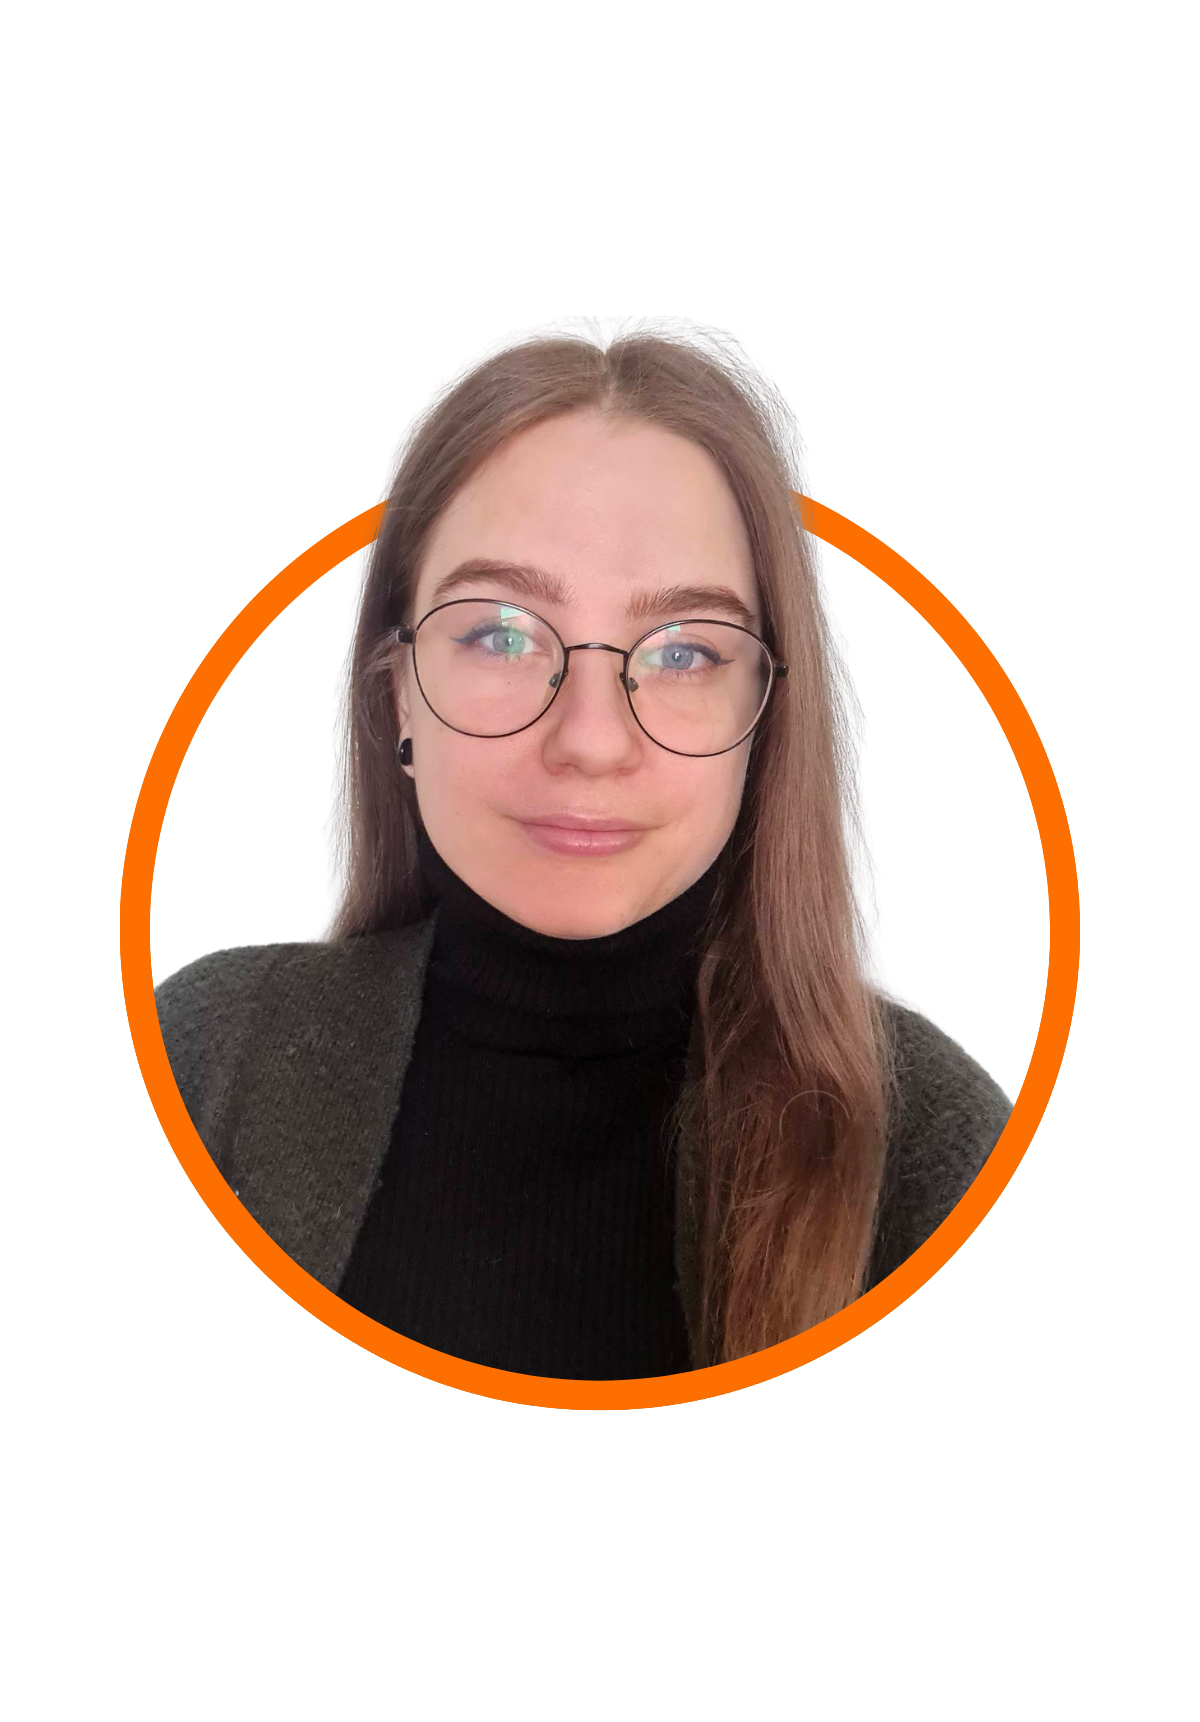
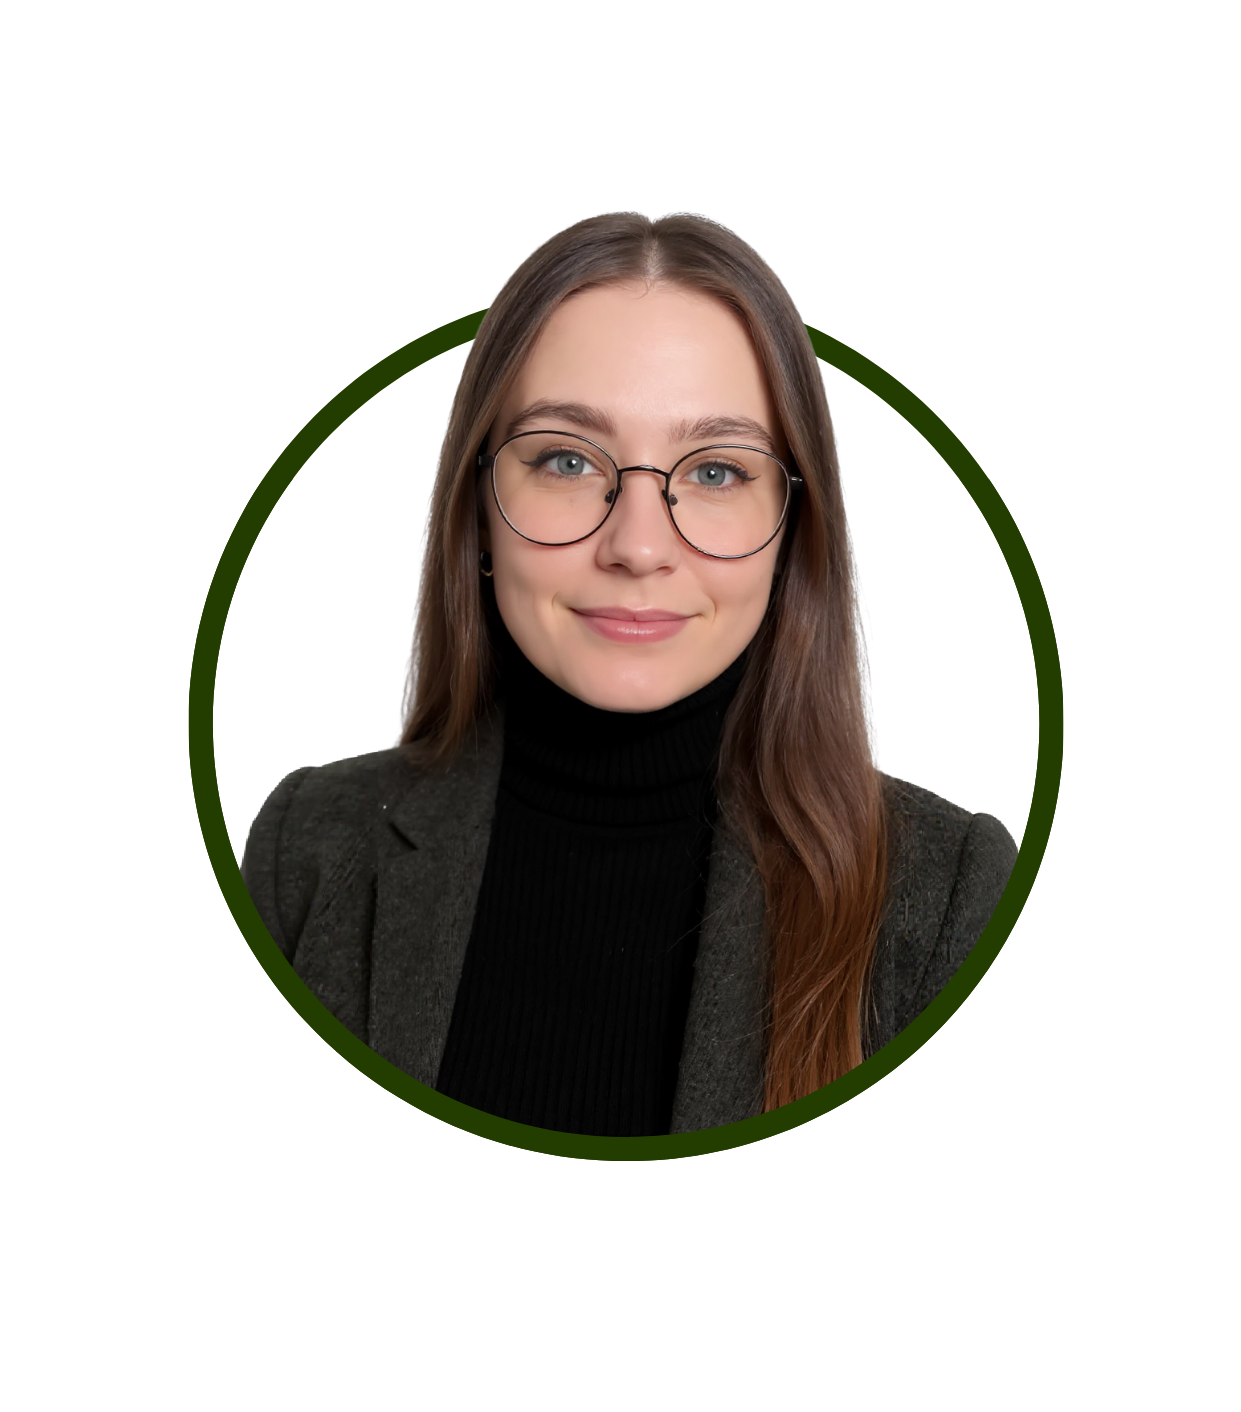
Changes color and adds projects

Changed region(s): [[0.0925, 0.1246, 0.925, 0.8414]]

diff --git a/src/components/Reusables/icons.jsx b/src/components/Reusables/icons.jsx
@@ -1,22 +1,41 @@
-import githubicon from "../../images/icons/github.png"
-import linkedinicon from "../../images/icons/linkedin.png"
-import stackoverflowicon from "../../images/icons/stackoverflow.png"
 import styled from "styled-components"
+import { theme } from "../Styling/Theme"
 
 export const Icons = () => {
   return (
     <IconRow>
-      <a href="https://github.com/julialindstrand"><Picture src={githubicon} alt="Github Logo" /></a>
-      <a href="https://www.linkedin.com/flagship-web/mynetwork/grow/"><Picture src={linkedinicon} alt="LinkedIn Logo" /></a>
-      <a href="https://stackoverflow.com/users/31290851/user31290851"><Picture src={stackoverflowicon} alt="Stackoverflow Logo" /></a>
-    </IconRow>
+      <a href="https://github.com/julialindstrand">
+        <svg width="24" height="23" viewBox="0 0 24 23" fill="none" xmlns="http://www.w3.org/2000/svg">
+          <path d="M7.73438 18.2812C7.73438 18.1875 7.64062 18.0938 7.5 18.0938C7.35938 18.0938 7.26562 18.1875 7.26562 18.2812C7.26562 18.375 7.35938 18.4688 7.5 18.4219C7.64062 18.4219 7.73438 18.375 7.73438 18.2812ZM6.28125 18.0469C6.28125 18.1406 6.375 18.2812 6.51562 18.2812C6.60938 18.3281 6.75 18.2812 6.79688 18.1875C6.79688 18.0938 6.75 18 6.60938 17.9531C6.46875 17.9062 6.32812 17.9531 6.28125 18.0469ZM8.39062 18C8.25 18 8.15625 18.0938 8.15625 18.2344C8.15625 18.3281 8.29688 18.375 8.4375 18.3281C8.57812 18.2812 8.67188 18.2344 8.625 18.1406C8.625 18.0469 8.48438 17.9531 8.39062 18ZM11.4375 0C4.96875 0 0 4.96875 0 11.4375C0 16.6406 3.23438 21.0938 7.92188 22.6875C8.53125 22.7812 8.71875 22.4062 8.71875 22.125C8.71875 21.7969 8.71875 20.2031 8.71875 19.2188C8.71875 19.2188 5.4375 19.9219 4.73438 17.8125C4.73438 17.8125 4.21875 16.4531 3.46875 16.125C3.46875 16.125 2.39062 15.375 3.51562 15.375C3.51562 15.375 4.6875 15.4688 5.34375 16.5938C6.375 18.4219 8.0625 17.9062 8.76562 17.5781C8.85938 16.8281 9.14062 16.3125 9.51562 15.9844C6.89062 15.7031 4.21875 15.3281 4.21875 10.8281C4.21875 9.51562 4.59375 8.90625 5.34375 8.0625C5.20312 7.73438 4.82812 6.51562 5.48438 4.875C6.42188 4.59375 8.71875 6.14062 8.71875 6.14062C9.65625 5.85938 10.6406 5.76562 11.625 5.76562C12.6562 5.76562 13.6406 5.85938 14.5781 6.14062C14.5781 6.14062 16.8281 4.54688 17.8125 4.875C18.4688 6.51562 18.0469 7.73438 17.9531 8.0625C18.7031 8.90625 19.1719 9.51562 19.1719 10.8281C19.1719 15.3281 16.4062 15.7031 13.7812 15.9844C14.2031 16.3594 14.5781 17.0625 14.5781 18.1875C14.5781 19.7344 14.5312 21.7031 14.5312 22.0781C14.5312 22.4062 14.7656 22.7812 15.375 22.6406C20.0625 21.0938 23.25 16.6406 23.25 11.4375C23.25 4.96875 17.9531 0 11.4375 0ZM4.54688 16.1719C4.45312 16.2188 4.5 16.3594 4.54688 16.4531C4.64062 16.5 4.73438 16.5469 4.82812 16.5C4.875 16.4531 4.875 16.3125 4.78125 16.2188C4.6875 16.1719 4.59375 16.125 4.54688 16.1719ZM4.03125 15.7969C3.98438 15.8906 4.03125 15.9375 4.125 15.9844C4.21875 16.0312 4.3125 16.0312 4.35938 15.9375C4.35938 15.8906 4.3125 15.8438 4.21875 15.7969C4.125 15.75 4.07812 15.75 4.03125 15.7969ZM5.53125 17.4844C5.48438 17.5312 5.48438 17.6719 5.625 17.7656C5.71875 17.8594 5.85938 17.9062 5.90625 17.8125C5.95312 17.7656 5.95312 17.625 5.85938 17.5312C5.76562 17.4375 5.625 17.3906 5.53125 17.4844ZM5.01562 16.7812C4.92188 16.8281 4.92188 16.9688 5.01562 17.0625C5.10938 17.1562 5.20312 17.2031 5.29688 17.1562C5.34375 17.1094 5.34375 16.9688 5.29688 16.875C5.20312 16.7812 5.10938 16.7344 5.01562 16.7812Z" fill={theme.color} />
+        </svg>
+      </a>
+      <a href="https://www.linkedin.com/flagship-web/mynetwork/grow/">
+        <svg width="21" height="21" viewBox="0 0 21 21" fill="none" xmlns="http://www.w3.org/2000/svg">
+          <path d="M4.6875 20.9531V6.9375H0.328125V20.9531H4.6875ZM2.48438 5.0625C3.89062 5.0625 5.01562 3.89062 5.01562 2.48438C5.01562 1.125 3.89062 0 2.48438 0C1.125 0 0 1.125 0 2.48438C0 3.89062 1.125 5.0625 2.48438 5.0625ZM20.9531 20.9531H21V13.2656C21 9.51562 20.1562 6.60938 15.75 6.60938C13.6406 6.60938 12.2344 7.78125 11.625 8.85938H11.5781V6.9375H7.40625V20.9531H11.7656V14.0156C11.7656 12.1875 12.0938 10.4531 14.3438 10.4531C16.5938 10.4531 16.6406 12.5156 16.6406 14.1562V20.9531H20.9531Z" fill={theme.color} />
+        </svg>
+      </a>
+      <a href="https://stackoverflow.com/users/31290851/user31290851">
+        <svg width="19" height="24" viewBox="0 0 19 24" fill="none" xmlns="http://www.w3.org/2000/svg">
+          <path d="M13 21H3V19H13V21ZM19 9.335L17.379 0L15.386 0.346L17.006 9.681L19 9.335ZM13.036 16.272L3.29 15.297L3.104 17.313L12.859 18.192L13.036 16.272ZM13.574 13.685L4.298 11.077L3.772 13.031L13.078 15.531L13.574 13.685ZM14.778 11.272L6.481 6.408L5.452 8.151L13.75 13.016L14.778 11.272ZM16.644 9.805L11.305 1.976L9.633 3.116L14.972 10.945L16.644 9.805ZM14 14V22H2V14H0V24H16V14H14Z" fill={theme.color} />
+        </svg>
+      </a>
+      {/* <a href="https://stackoverflow.com/users/31290851/user31290851">
+        <svg xmlns="http://www.w3.org/2000/svg" xmlns:xlink="http://www.w3.org/1999/xlink" version="1.1" width="19" height="24" viewBox="0 0 19 24" xml:space="preserve">
+          <g style="stroke: none; stroke-width: 0; stroke-dasharray: none; stroke-linecap: butt; stroke-linejoin: miter; stroke-miterlimit: 10; fill: none; fill-rule: nonzero; opacity: 1;" transform="translate(1.4065934065934016 1.4065934065934016) scale(2.81 2.81)">
+            <path d="M 75.546 78.738 H 14.455 C 6.484 78.738 0 72.254 0 64.283 V 25.716 c 0 -7.97 6.485 -14.455 14.455 -14.455 h 61.091 c 7.97 0 14.454 6.485 14.454 14.455 v 38.567 C 90 72.254 83.516 78.738 75.546 78.738 z M 14.455 15.488 c -5.64 0 -10.228 4.588 -10.228 10.228 v 38.567 c 0 5.64 4.588 10.229 10.228 10.229 h 61.091 c 5.64 0 10.228 -4.589 10.228 -10.229 V 25.716 c 0 -5.64 -4.588 -10.228 -10.228 -10.228 H 14.455 z" style="stroke: none; stroke-width: 1; stroke-dasharray: none; stroke-linecap: butt; stroke-linejoin: miter; stroke-miterlimit: 10; fill: rgb(29,29,27); fill-rule: nonzero; opacity: 1;" transform=" matrix(1 0 0 1 0 0) " stroke-linecap="round" />
+            <path d="M 11.044 25.917 C 21.848 36.445 32.652 46.972 43.456 57.5 c 2.014 1.962 5.105 -1.122 3.088 -3.088 C 35.74 43.885 24.936 33.357 14.132 22.83 C 12.118 20.867 9.027 23.952 11.044 25.917 L 11.044 25.917 z" style="stroke: none; stroke-width: 1; stroke-dasharray: none; stroke-linecap: butt; stroke-linejoin: miter; stroke-miterlimit: 10; fill: rgb(29,29,27); fill-rule: nonzero; opacity: 1;" transform=" matrix(1 0 0 1 0 0) " stroke-linecap="round" />
+            <path d="M 46.544 57.5 c 10.804 -10.527 21.608 -21.055 32.412 -31.582 c 2.016 -1.965 -1.073 -5.051 -3.088 -3.088 C 65.064 33.357 54.26 43.885 43.456 54.412 C 41.44 56.377 44.529 59.463 46.544 57.5 L 46.544 57.5 z" style="stroke: none; stroke-width: 1; stroke-dasharray: none; stroke-linecap: butt; stroke-linejoin: miter; stroke-miterlimit: 10; fill: rgb(29,29,27); fill-rule: nonzero; opacity: 1;" transform=" matrix(1 0 0 1 0 0) " stroke-linecap="round" />
+            <path d="M 78.837 64.952 c -7.189 -6.818 -14.379 -13.635 -21.568 -20.453 c -2.039 -1.933 -5.132 1.149 -3.088 3.088 c 7.189 6.818 14.379 13.635 21.568 20.453 C 77.788 69.973 80.881 66.89 78.837 64.952 L 78.837 64.952 z" style="stroke: none; stroke-width: 1; stroke-dasharray: none; stroke-linecap: butt; stroke-linejoin: miter; stroke-miterlimit: 10; fill: rgb(29,29,27); fill-rule: nonzero; opacity: 1;" transform=" matrix(1 0 0 1 0 0) " stroke-linecap="round" />
+            <path d="M 14.446 68.039 c 7.189 -6.818 14.379 -13.635 21.568 -20.453 c 2.043 -1.938 -1.048 -5.022 -3.088 -3.088 c -7.189 6.818 -14.379 13.635 -21.568 20.453 C 9.315 66.889 12.406 69.974 14.446 68.039 L 14.446 68.039 z" style="stroke: none; stroke-width: 1; stroke-dasharray: none; stroke-linecap: butt; stroke-linejoin: miter; stroke-miterlimit: 10; fill: rgb(29,29,27); fill-rule: nonzero; opacity: 1;" transform=" matrix(1 0 0 1 0 0) " stroke-linecap="round" />
+          </g>
+        </svg>
+      </a> */}
+    </IconRow >
   )
 }
 
 const IconRow = styled.div`
   display: flex;
-  flex-direction: row;`
-
-const Picture = styled.img`
- padding-right: 15px;
-`
+  flex-direction: row;
+  gap: 10px;
+  `

diff --git a/src/components/5.Articles.jsx b/src/components/5.Articles.jsx
@@ -1,40 +1,40 @@
-import articlesData from "../data/articles.json"
-import { ArticleCard } from "./Reusables/card"
-import styled from "styled-components"
-import { H2 } from "./Styling/Typography"
-import { Carousel } from "./Styling/Carousel"
+// import articlesData from "../data/articles.json"
+// import { ArticleCard } from "./Reusables/card"
+// import styled from "styled-components"
+// import { H2 } from "./Styling/Typography"
+// import { Carousel } from "./Styling/Carousel"
 
-export const Articles = () => {
-  return (
-    <ArticlesSection>
-      <H2>My Journey</H2>
-      <Carousel
-        data={articlesData.articles}
-        renderItem={(article) => (
-          <ArticleCard
-            key={article.title}
-            image={article.image}
-            title={article.title}
-            description={article.description}
-          />
-        )}
-      />
-    </ArticlesSection>
-  )
-}
+// export const Articles = () => {
+//   return (
+//     <ArticlesSection>
+//       <H2>My Journey</H2>
+//       <Carousel
+//         data={articlesData.articles}
+//         renderItem={(article) => (
+//           <ArticleCard
+//             key={article.title}
+//             image={article.image}
+//             title={article.title}
+//             description={article.description}
+//           />
+//         )}
+//       />
+//     </ArticlesSection>
+//   )
+// }
 
 
-// Styling
-const ArticlesSection = styled.div`
-  margin-top: 100px;
-`
+// // Styling
+// const ArticlesSection = styled.div`
+//   margin-top: 100px;
+// `
 
-const ArticlesContainer = styled.div`
-  display: flex;
-  flex-direction: row;
-  justify-content: center;
-  align-items: flex - start;
-  padding: 0px;
-  gap: 64px;
-  width: 1440px;
-  height: 625px;`
+// const ArticlesContainer = styled.div`
+//   display: flex;
+//   flex-direction: row;
+//   justify-content: center;
+//   align-items: flex - start;
+//   padding: 0px;
+//   gap: 64px;
+//   width: 1440px;
+//   height: 625px;`

diff --git a/src/App.jsx b/src/App.jsx
@@ -3,7 +3,7 @@ import { Header } from "./components/1.Header"
 import { Skills } from "./components/2.Skills"
 import { Project } from "./components/3.Projects"
 import { Tech } from "./components/4.Tech"
-import { Articles } from "./components/5.Articles"
+// import { Articles } from "./components/5.Articles"
 import { Contact } from "./components/6.Contact"
 
 
@@ -18,11 +18,11 @@ export const App = () => {
 
       <Skills />
 
-      <Project />
-
       <Tech />
 
-      <Articles />
+      <Project />
+
+      {/* <Articles /> */}
 
       <Contact />
 

diff --git a/src/components/Styling/GlobalStyle.js b/src/components/Styling/GlobalStyle.js
@@ -1,6 +1,6 @@
 import { createGlobalStyle } from "styled-components"
 
-export const basecolor = "#FD6F00"
+export const basecolor = "#233D00"
 export const GlobalStyle = createGlobalStyle`
   * {
   margin: 0;

diff --git a/README.md b/README.md
@@ -1,5 +1,5 @@
 # Portfolio
 
-Netlify-link:
+Netlify-link: https://portfolio-technigo-julia.netlify.app/
 
 Figma-link: https://www.figma.com/design/jOlPicmO7AGtZLrZOpgZ44/Portfolio?node-id=1791-1877&t=CGhZrNLZ8wEjnYxZ-0
